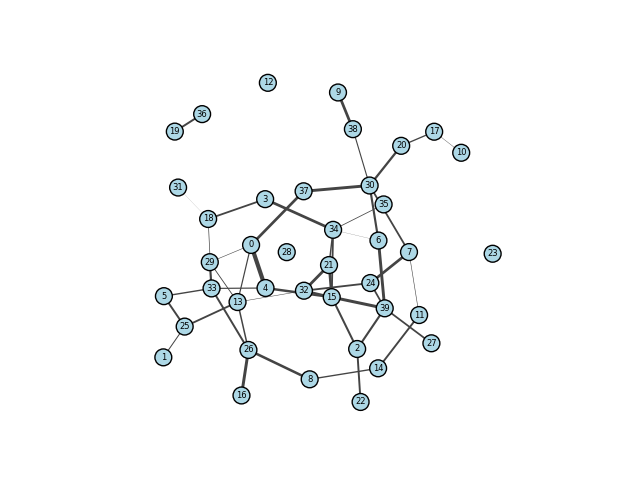
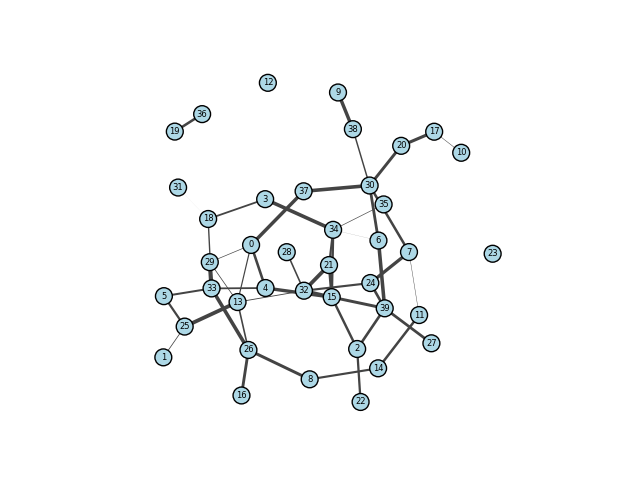
Added goals

diff --git a/PathFinder/pathfinder.py b/PathFinder/pathfinder.py
@@ -7,6 +7,35 @@ import numpy as np
 random.seed(42)
 
 
+def run(nodes, edges, travellers, reps):
+    """Runs the program."""
+    graph = create_graph(nodes, edges)
+    traveller_goals = [create_goal(nodes, graph) for _ in range(travellers)]
+
+    for goal in traveller_goals:
+        # Find paths from start to end
+        # paths = graph.get_k_shortest_paths(7, 11, 20)  # Maybe not the best way to do this because it goes off a single iteration's random weights
+        paths = graph.get_all_simple_paths(goal['start'], goal['end'], cutoff=10)  # Cutoff=10 to not overwhelm the program
+
+        # Sort paths by number of nodes. Not necessary, but makes it easier to read.
+        paths.sort(key=len)
+
+    for rep in range(reps):
+        pass
+
+
+def create_goal(nodes, graph):
+    goal = {'start': random.randint(0, nodes - 1), 'end': random.randint(0, nodes - 1)}
+
+    while goal['start'] == goal['end']:
+        goal['end'] = random.randint(0, nodes - 1)  # Don't want start and end to be the same
+
+    if not graph.are_connected(goal['start'], goal['end']):
+        goal = create_goal(nodes, graph)  # Don't want start and end to be disconnected
+
+    return goal
+
+
 def create_graph(nodes, edges):
     graph = ig.Graph.Erdos_Renyi(n=nodes, m=edges, directed=False, loops=False)
 
@@ -15,30 +44,19 @@ def create_graph(nodes, edges):
 
     # Set edge weights
     weight_dists = [getRandomDist() for _ in range(edges)]
-    graph.es['weight'] = [max(0, weight_func()) for weight_func in weight_dists]  # Max 0 to prevent negative weights
+    graph.es['weight'] = [max(0, weight_func()) for weight_func in weight_dists]  # Uses 0 if weight is negative
 
+    plot_graph(graph)
+
+    return graph
+
+
+def plot_graph(graph):
+    """Plots the graph and saves it to a .png file and a .gml file."""
     max_weight = max(graph.es['weight'])
-    edge_widths = [w / max_weight * 3 for w in graph.es['weight']]  # Scale edge widths by max weight
+    scale = 3
+    edge_widths = [weight / max_weight * scale for weight in graph.es['weight']]  # Scale edge widths by max weight
 
-    # Find paths from node 0 to node 1
-    # paths = graph.get_k_shortest_paths(7, 11, 20)  # Maybe not the best way to do this because it goes off a single iteration's random weights
-    paths = graph.get_all_simple_paths(7, 11, cutoff=10)  # Cutoff is set to 10 to prevent overwhelming the program
-
-    # Sort paths by length
-    paths.sort(key=len)
-
-    # print(paths)
-
-    # Print cost of each path
-    for path in paths:
-        cost = 0
-        for i in range(len(path) - 1):
-            cost += graph.es.find(_source=path[i], _target=path[i + 1])['weight']
-        print(f'{len(path)} - Cost: {cost:.2f}')
-
-    print(f'# of paths: {len(paths)}')
-
-    # Plot the graph
     ig.config['plotting.backend'] = 'matplotlib'
     ig.plot(
         graph,

diff --git a/PathFinder/__main__.py b/PathFinder/__main__.py
@@ -4,7 +4,12 @@ from . import pathfinder
 
 
 def main():
-    pathfinder.create_graph(40, 50)
+    nodes = 40
+    edges = 50
+    travellers = 5
+    reps = 100
+    pathfinder.run(nodes, edges, travellers, reps)
+
 
 if __name__ == '__main__':
     main()
